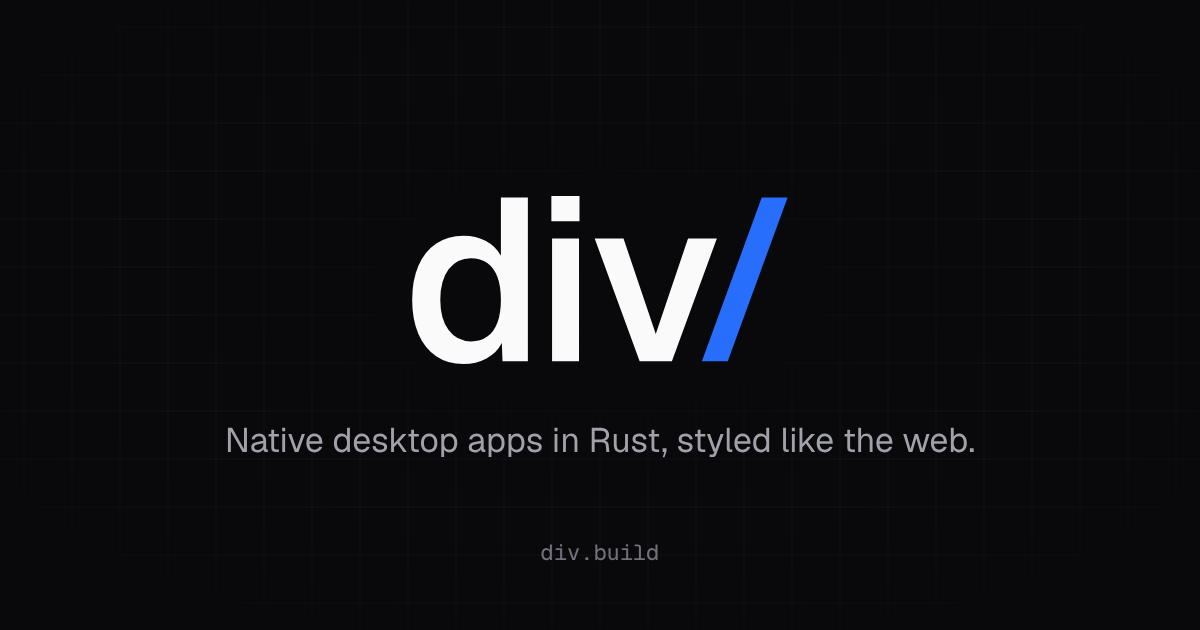
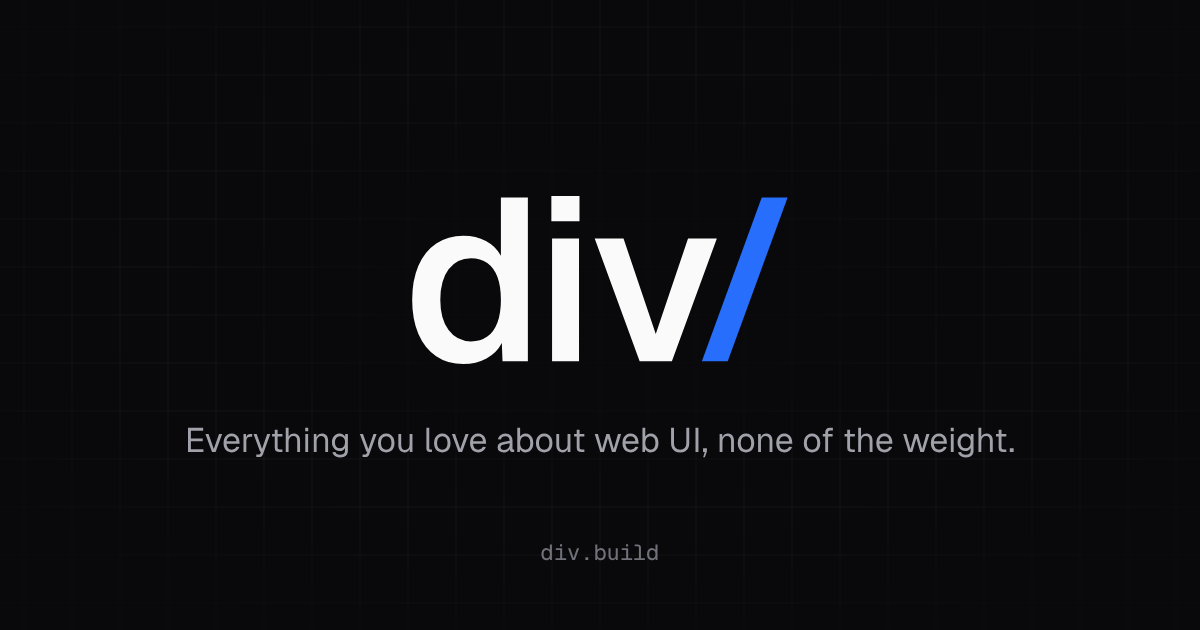
brand: set the new tagline on the social card
The Open Graph image now carries "Everything you love about web UI, none
of the weight." in place of the old headline. The tagline is a named
constant, and the build checks that it stays inside the card's 120 px side
margins (it is 830 px wide at 34 px). The preview's alt text follows.

Changed region(s): [[0.1542, 0.6635, 0.7092, 0.7238], [0.7708, 0.6635, 0.8633, 0.7238]]

diff --git a/brand/preview.html b/brand/preview.html
@@ -185,7 +185,7 @@ table.icons td.name span { display: block; color: var(--muted); font-size: 12px;
 </div>
 
 <h2>Open Graph image</h2>
-<div class="og"><img src="og/og-image.png" alt="Open Graph image: the div/ wordmark and the line Native desktop apps in Rust, styled like the web."></div>
+<div class="og"><img src="og/og-image.png" alt="Open Graph image: the div/ wordmark and the line Everything you love about web UI, none of the weight."></div>
 <p class="caption">1200 × 630. The headline is the site's; the grid is faint on purpose and fades toward the centre.</p>
 
 <h2>Color</h2>

diff --git a/brand/preview.template.html b/brand/preview.template.html
@@ -185,7 +185,7 @@ table.icons td.name span { display: block; color: var(--muted); font-size: 12px;
 </div>
 
 <h2>Open Graph image</h2>
-<div class="og"><img src="og/og-image.png" alt="Open Graph image: the div/ wordmark and the line Native desktop apps in Rust, styled like the web."></div>
+<div class="og"><img src="og/og-image.png" alt="Open Graph image: the div/ wordmark and the line Everything you love about web UI, none of the weight."></div>
 <p class="caption">1200 × 630. The headline is the site's; the grid is faint on purpose and fades toward the centre.</p>
 
 <h2>Color</h2>

diff --git a/brand/build.py b/brand/build.py
@@ -47,6 +47,9 @@ ACCENT = "#266EFB"  # Div blue, oklch(0.58 0.223 262)
 BLACK = "#000000"
 WHITE = "#FFFFFF"
 
+# The site's tagline, set under the wordmark on the social card.
+TAGLINE = "Everything you love about web UI, none of the weight."
+
 # Wordmark spacing, in font units (1000 per em), added after each letter.
 TRACK = {"d": -40, "i": -26}
 # Slash: horizontal run as a share of the stem, and its horizontal gap from
@@ -597,16 +600,19 @@ def og_image() -> str:
     f = lambda p: (p[0] * k + wx, p[1] * k + wy)  # noqa: E731
     body.append(path(letters.map(f).svg(2), PAPER) + path(sl.map(f).svg(2), ACCENT))
 
-    # Headline (the site's) and address, as outlines.
+    # Tagline and address, as outlines.
     regular = Font.load(GEIST, 400)
-    line, lw = regular.shape("Native desktop apps in Rust, styled like the web.", 34)
+    line, lw = regular.shape(TAGLINE, 34)
+    # Keep the line inside the card's 120 px side margins (and narrower than
+    # the 1.91:1 crop some feeds show).
+    assert lw <= W - 2 * 120, f"tagline is {lw:.0f} px wide; shorten it or reduce its size"
     line = line.map(lambda p: (p[0] + (W - lw) / 2, 452 - p[1]))
     body.append(path(line.svg(2), "#A1A1AA"))
     mono = Font.load(GEIST_MONO, 450)
     url, uw = mono.shape("div.build", 22)
     url = url.map(lambda p: (p[0] + (W - uw) / 2, 560 - p[1]))
     body.append(path(url.svg(2), "#71717A"))
-    return svg_doc(W, H, "".join(body), label="Div: native desktop apps in Rust, styled like the web")
+    return svg_doc(W, H, "".join(body), label=f"Div: {TAGLINE}")
 
 
 # --------------------------------------------------------------------------
